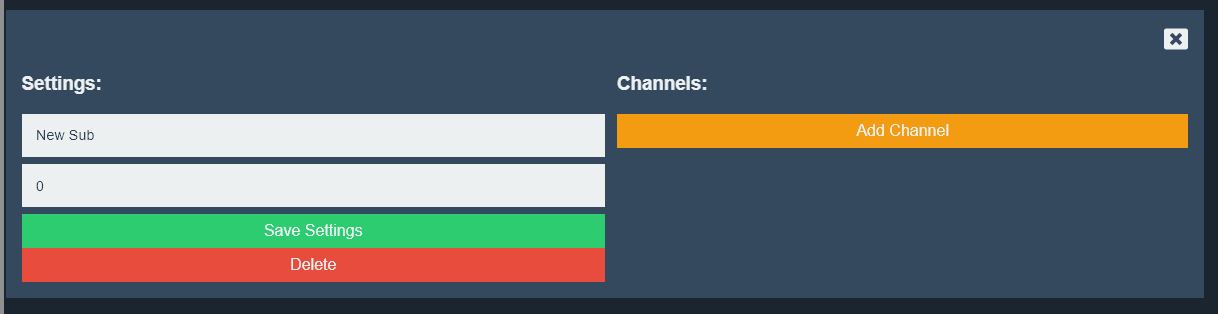
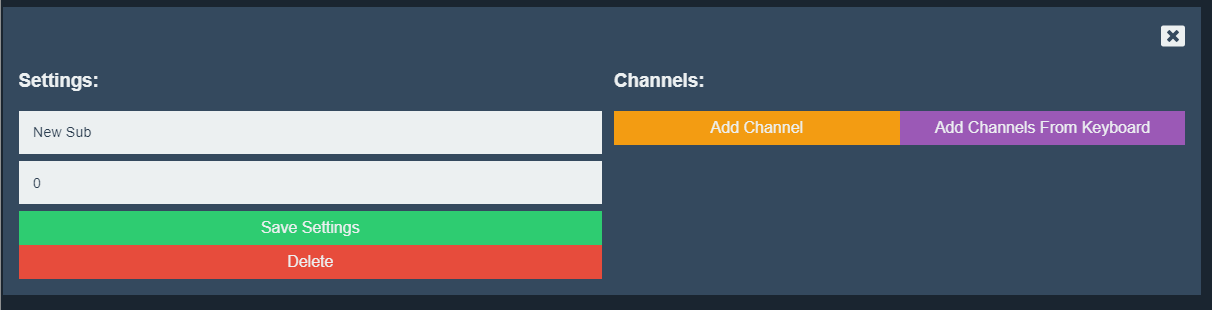
Update docs and images

Changed region(s): [[0.0, 0.0, 1.0, 0.9581], [0.4884, 0.2323, 0.58, 0.2903]]

diff --git a/docs/submasters/channels/adding_submaster_channels.md b/docs/submasters/channels/adding_submaster_channels.md
@@ -1,9 +1,19 @@
 # Adding Submaster Channels
 
-To add a channel to the current submaster, click the *Add Channel* button.
+## Single Channel
+
+To add a single channel to the current submaster, click the *Add Channel* button.
 
 ![Add submaster channel](../../images/add_submaster_channel.png)
 
 A new channel entry will be added to the list.
 
 ![Submaster channel entry](../../images/submaster_channel.png)
+
+## Multiple Channels
+
+To add multiple channels to the current submaster, set channel values in the *Keyboard* tab and then click the *Add Channels From Keyboard* button.
+
+![Add submaster channels](../../images/add_submaster_channels.png)
+
+A channel entry will be created for each value that you set in the *Keyboard* tab.

diff --git a/docs/submasters/creating_submasters.md b/docs/submasters/creating_submasters.md
@@ -7,5 +7,3 @@ To create a new submaster, press the *New Submaster* button.
 A new submaster will be created and displayed before the *New Submaster* button. If there are other submasters, the new one will be displayed after all others (to the right).
 
 ![Submaster created](../images/submaster_created.png)
-
-If the *Keyboard* was used to set channel values, all values set will automatically be added to the newly created submaster.
